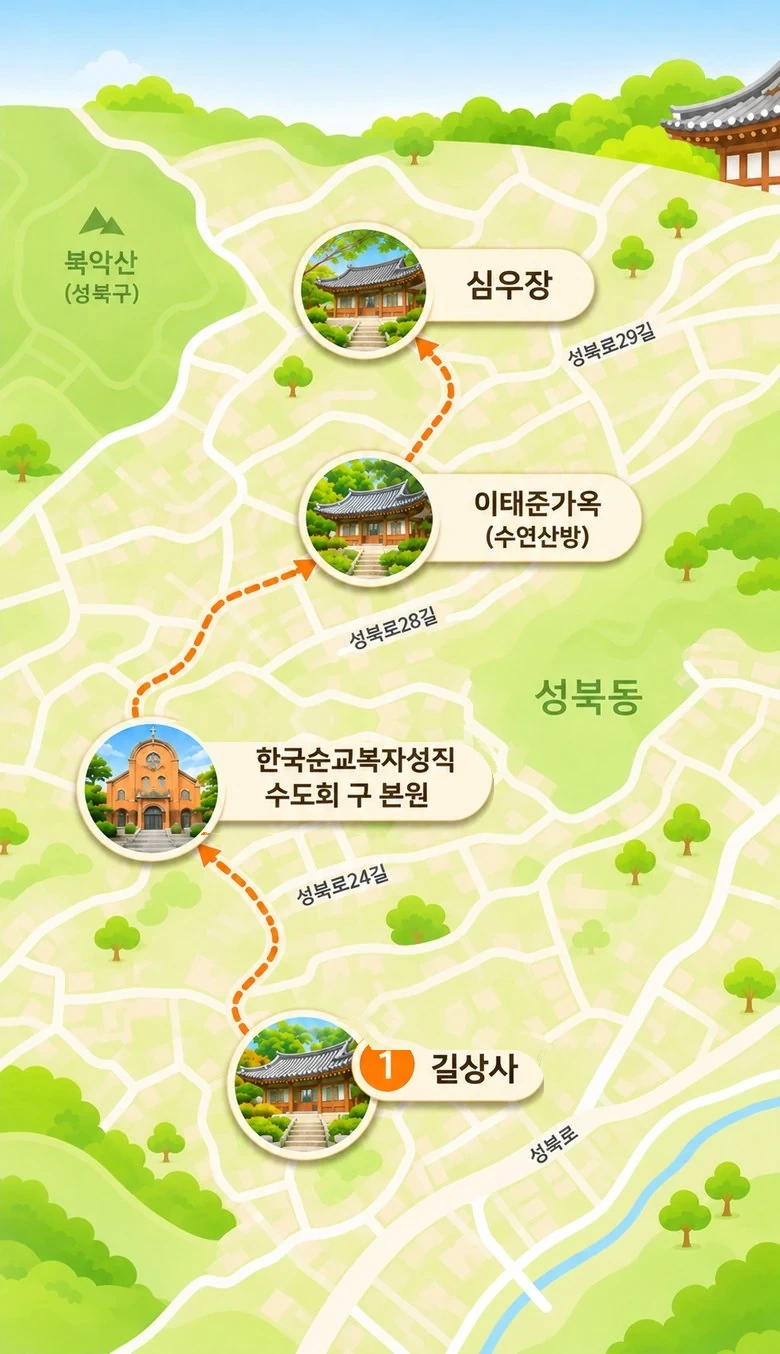
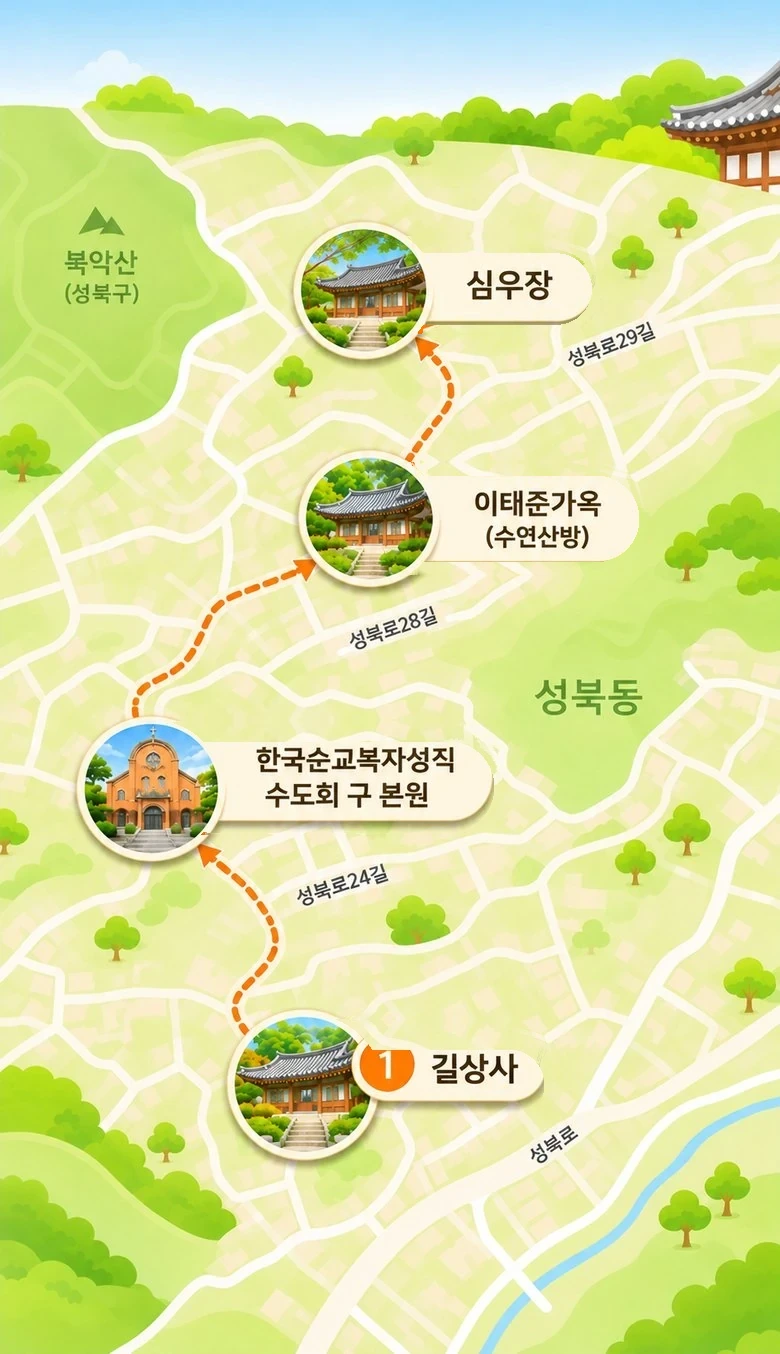
fix: 지도 핀과 장소명 세로 정렬 개선

diff --git a/apps/web/src/data/episodes.ts b/apps/web/src/data/episodes.ts
@@ -51,7 +51,7 @@ export const EPISODES: Episode[] = [
         radius: ARRIVAL_RADIUS,
         photo: "place-gilsangsa.webp",
         pinPhoto: "pin-gilsangsa.webp",
-        pin: { x: 29.74, y: 74.89, w: 147, h: 71, ring: [75, 71], photo: [1, 0, 69, 71], label: [40, 17, 117, 37], drawnSign: true, text: [88, 27, 0], fontSize: 15 },
+        pin: { x: 29.74, y: 74.89, w: 147, h: 71, ring: [75, 71], photo: [1, 0, 69, 71], label: [40, 17, 117, 37], drawnSign: true, text: [88, 25.08, 0], fontSize: 15 },
         ordinal: "첫번째",
         // Figma 원본 136:3821 · 3848 · 3875 · 3907 문구 (오타 "요청" → "요정", 마침표 뒤 띄어쓰기, NanumHuman에 없는 한자 "故" 빼기만 고침)
         story: {
@@ -92,7 +92,7 @@ export const EPISODES: Episode[] = [
         radius: ARRIVAL_RADIUS,
         photo: "place-martyrs.webp",
         pinPhoto: "pin-martyrs.webp",
-        pin: { x: 10.51, y: 53.18, w: 194, h: 67, ring: [70, 67], photo: [2, 2, 65, 65], label: [40, 10, 167, 47], lockedLabel: [40, 10, 167, 47], drawnSign: true, text: [87, 18, 93], fontSize: 13 },
+        pin: { x: 10.51, y: 53.18, w: 194, h: 67, ring: [70, 67], photo: [2, 2, 65, 65], label: [40, 10, 167, 47], lockedLabel: [40, 10, 167, 47], drawnSign: true, text: [87, 15.08, 93], fontSize: 13 },
         ordinal: "두번째",
         // Figma 원본 136:3821 · 3848 · 3875 · 3907 문구 (오타 "요청" → "요정", 마침표 뒤 띄어쓰기, NanumHuman에 없는 한자 "故" 빼기만 고침)
         story: {
@@ -137,7 +137,7 @@ export const EPISODES: Episode[] = [
         radius: ARRIVAL_RADIUS,
         photo: "place-suyeonsanbang.webp",
         pinPhoto: "pin-suyeonsanbang.webp",
-        pin: { x: 38.46, y: 33.38, w: 160, h: 67, ring: [70, 67], photo: [3, 3, 63, 61], label: [77, 15, 83, 37], lockedLabel: [40, 9, 132, 46], text: [85, 16, 64], fontSize: 13 },
+        pin: { x: 38.46, y: 33.38, w: 160, h: 67, ring: [70, 67], photo: [3, 3, 63, 61], label: [40, 11.1, 130.5, 44.8], lockedLabel: [40, 11.1, 130.5, 44.8], drawnSign: true, text: [85, 15.08, 64], fontSize: 13 },
         ordinal: "세번째",
         // Figma 원본 136:3821 · 3848 · 3875 · 3907 문구 (오타 "요청" → "요정", 마침표 뒤 띄어쓰기, NanumHuman에 없는 한자 "故" 빼기만 고침)
         story: {
@@ -181,7 +181,7 @@ export const EPISODES: Episode[] = [
         radius: ARRIVAL_RADIUS,
         photo: "place-simujang.webp",
         pinPhoto: "pin-simujang.webp",
-        pin: { x: 37.69, y: 16.4, w: 134, h: 67, ring: [70, 67], photo: [3, 3, 63, 62.07], label: [80, 20, 54, 25], lockedLabel: [40, 12, 112, 38], text: [86, 21, 41], fontSize: 15 },
+        pin: { x: 37.69, y: 16.4, w: 134, h: 67, ring: [70, 67], photo: [3, 3, 63, 62.07], label: [40, 14.85, 109.8, 37.3], lockedLabel: [40, 14.85, 109.8, 37.3], drawnSign: true, text: [86, 23.08, 41], fontSize: 15 },
         ordinal: "네번째",
         // Figma 원본 136:3821 · 3848 · 3875 · 3907 문구 (오타 "요청" → "요정", 마침표 뒤 띄어쓰기, NanumHuman에 없는 한자 "故" 빼기만 고침)
         story: {
